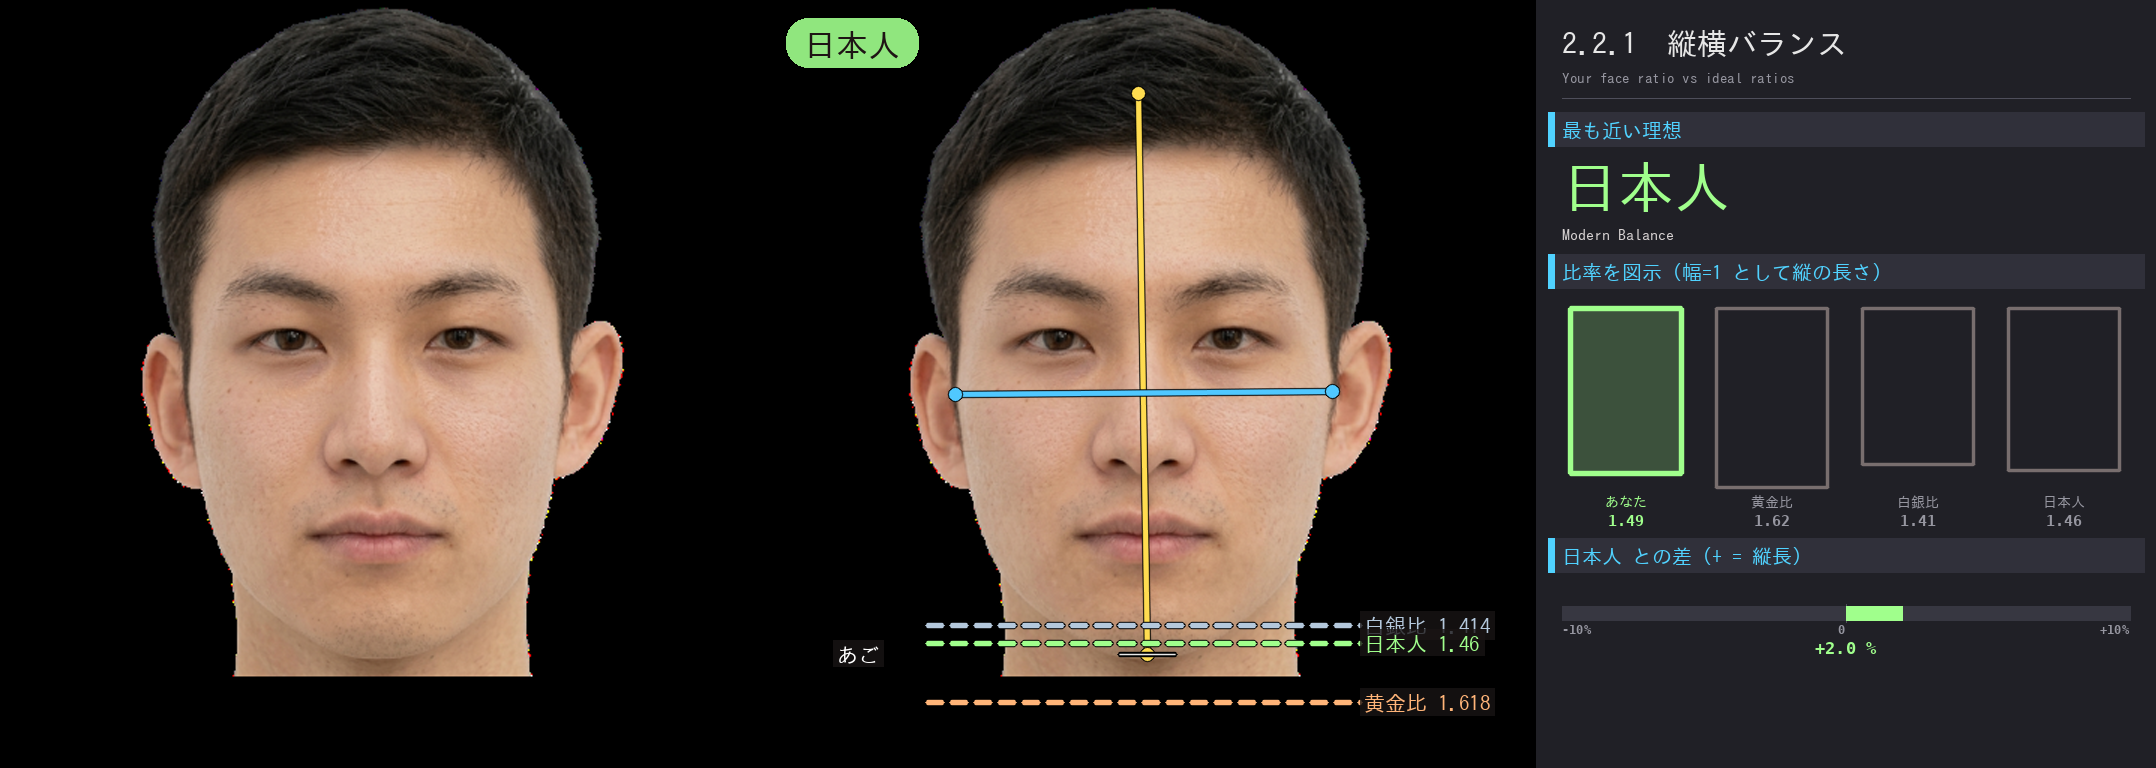
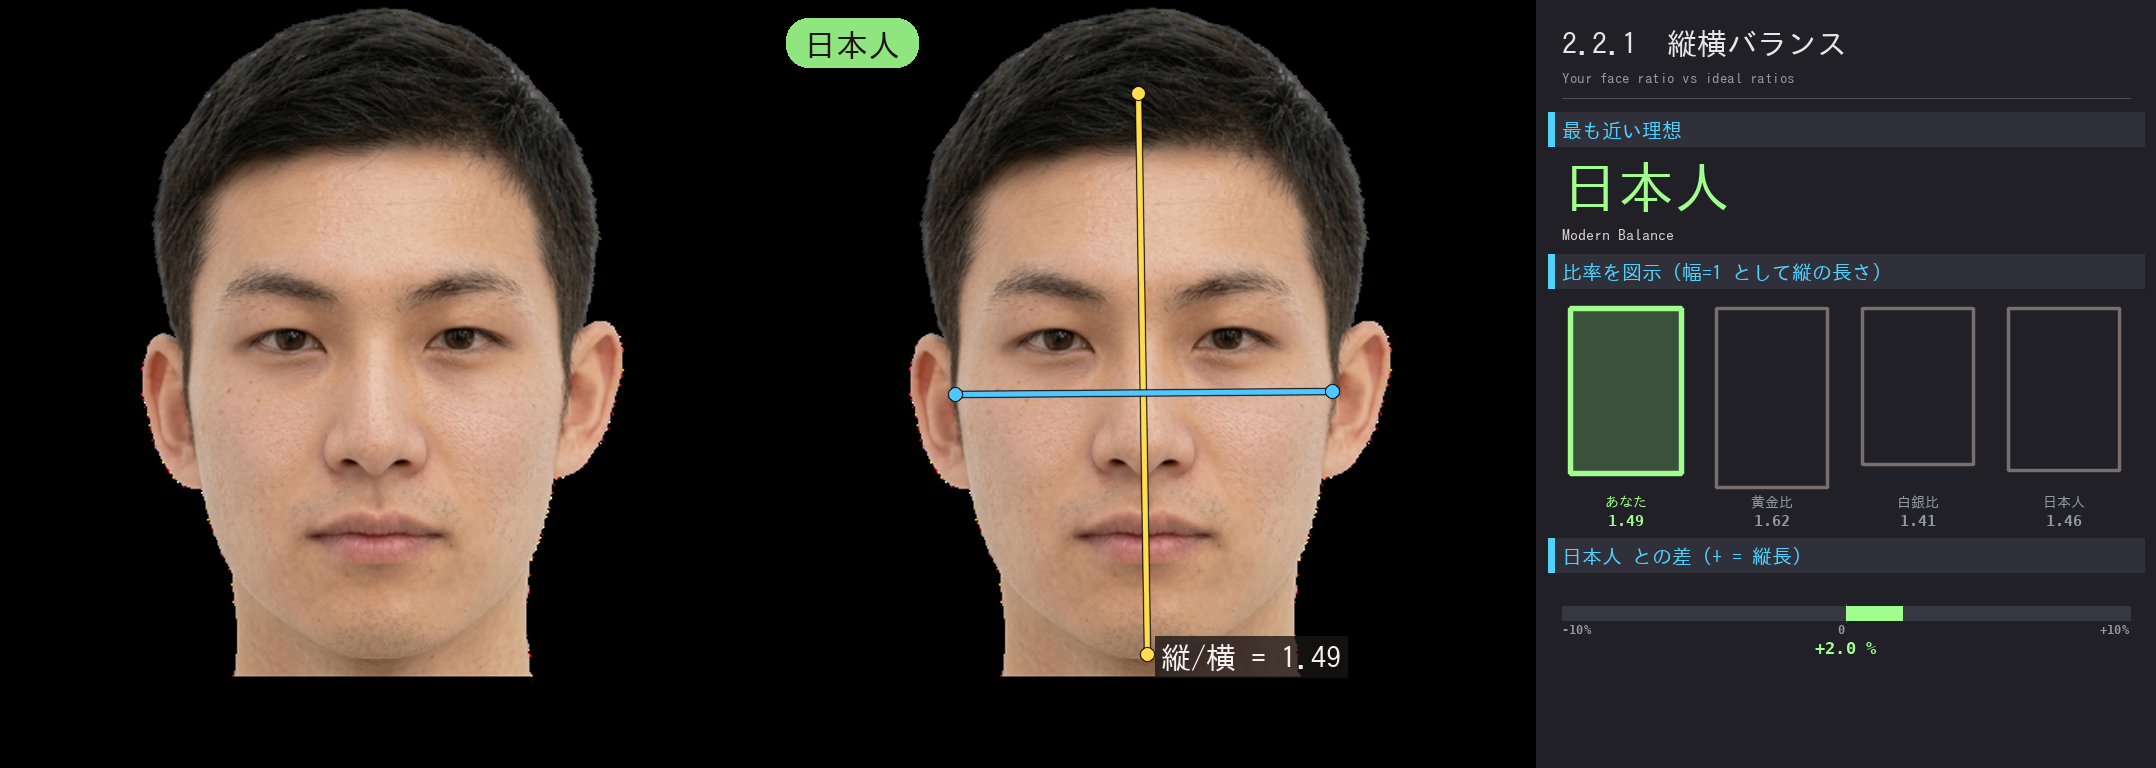
fix(2.2.1): 顔上の理想参照破線を削除、本人の線と比率だけに
ユーザー FB「線はその人だけの線で比率書くだけでいい」を反映。

- 3 本の破線 (golden/silver/japanese 参照線) を削除
- 「あご」マーカー、寸法 px ラベルも削除
- 本人の縦軸 + 横軸 + 「縦/横 = 1.49」ラベル一つだけに集約
- 理想比との比較は右パネルの ratio_compare + diff_bar で完結

docs/ui-samples の代表画像も新版で更新。

https://claude.ai/code/session_011kTbd8S2munaAH6jcfJsWR

Changed region(s): [[0.4351, 0.8125, 0.6837, 0.9375], [0.3729, 0.8438, 0.404, 0.875]]

diff --git a/loadmap/2/2.2.1-face-ratio/main.py b/loadmap/2/2.2.1-face-ratio/main.py
@@ -205,9 +205,9 @@ RATIO_IMPRESSION = {
 
 def annotate_face(image: np.ndarray, fm: FaceMesh, r: FaceRatioResult,
                   scale: float = 1.0) -> np.ndarray:
-    """顔画像に実測の縦横線 + 理想比の参照破線を重ねる
+    """顔画像に「本人の縦横線と縦横比」だけを重ねる
 
-    数字を減らし、「あごがどこに来れば黄金比か」を視覚的に示す。
+    理想比の参照線は描かない (パネル側で比較する)。
     """
     if scale != 1.0:
         img = cv2.resize(
@@ -225,7 +225,7 @@ def annotate_face(image: np.ndarray, fm: FaceMesh, r: FaceRatioResult,
     p_tr = S(fm.landmarks_px[LM.TEMPLE_R])
     p_tl = S(fm.landmarks_px[LM.TEMPLE_L])
 
-    # 補正した生え際 (scale 済み) = face_height_ext の上端
+    # 補正した生え際 (scale 済み)
     ext_raw_px = r.face_height_px - r.face_height_px_raw
     dy_top_chin = p_top[1] - p_chin[1]
     ext_len_ref = abs(dy_top_chin) if abs(dy_top_chin) > 1e-3 else 1.0
@@ -234,56 +234,24 @@ def annotate_face(image: np.ndarray, fm: FaceMesh, r: FaceRatioResult,
 
     lw = max(2, int(2 * scale))
 
-    # ---- あなたの顔の縦横軸 (実線) ----
+    # 本人の縦横軸
     draw_line_outlined(img, p_top_ext, p_chin, C_H, thickness=lw)
     draw_line_outlined(img, p_tr, p_tl, C_W, thickness=lw)
     for pt, col in [(p_top_ext, C_H), (p_chin, C_H),
                     (p_tr, C_W), (p_tl, C_W)]:
         draw_point_outlined(img, pt, col, r=max(3, int(4 * scale)))
 
-    # ---- 理想比の参照線 (破線) ----
-    # 横幅を固定し、縦幅 = 横幅 * ideal_ratio になる位置にあごが来るべき
-    # あごの位置を水平破線で引く (左右にはみ出し気味で)
-    cx_face = (p_tr[0] + p_tl[0]) / 2
-    face_w_scaled = abs(p_tl[0] - p_tr[0])
-    line_len = face_w_scaled * 1.15  # 少しはみ出し
-
-    for name, ratio in RATIO_VALUE.items():
-        ideal_h = face_w_scaled * ratio  # 補正後の縦幅 = w * ratio
-        ideal_chin_y = p_top_ext[1] + ideal_h  # top_ext から下に
-        col = RATIO_COLOR[name]
-        draw_dashed_line(
-            img,
-            (cx_face - line_len / 2, ideal_chin_y),
-            (cx_face + line_len / 2, ideal_chin_y),
-            col, thickness=max(2, int(2 * scale)),
-            dash_len=int(10 * scale), gap_len=int(6 * scale),
-        )
-        # ラベル (ライン右端)
-        label_size = max(13, int(14 * scale))
-        draw_pil_text(
-            img,
-            f"{RATIO_JP[name]} {ratio}",
-            (cx_face + line_len / 2 + 4, ideal_chin_y - 10),
-            color=col, size=label_size,
-            bg=(20, 20, 25), bg_alpha=0.78, bg_pad=4,
-        )
-
-    # あなたの実際のあご位置を強調 (白いマーカー線)
-    draw_line_outlined(
-        img,
-        (p_chin[0] - line_len / 2 + face_w_scaled / 2, p_chin[1]),
-        (p_chin[0] + line_len / 2 - face_w_scaled / 2, p_chin[1]),
-        (255, 255, 255), thickness=max(1, int(1 * scale)),
-    )
+    # 比率ラベル: 縦横比 を 1 つだけシンプルに表示
+    label_bg = (20, 20, 25)
+    label_size = max(18, int(20 * scale))
     draw_pil_text(
-        img, "あご",
-        (cx_face - line_len / 2 - int(60 * scale), p_chin[1] - 10),
-        color=(255, 255, 255), size=max(13, int(14 * scale)),
-        bg=(20, 20, 25), bg_alpha=0.78, bg_pad=4,
+        img, f"縦/横 = {r.aspect:.2f}",
+        (p_chin[0] + 14, p_chin[1] - 12),
+        color=(240, 240, 245), size=label_size,
+        bg=label_bg, bg_alpha=0.78, bg_pad=6,
     )
 
-    # ---- 左上ピル: closest ratio ----
+    # 左上ピル: closest ratio
     label_color = RATIO_COLOR.get(r.closest_ratio, (255, 255, 255))
     pill_text = RATIO_JP.get(r.closest_ratio, r.closest_ratio).upper()
     pill_size = int(24 * max(1.0, scale * 0.9))
